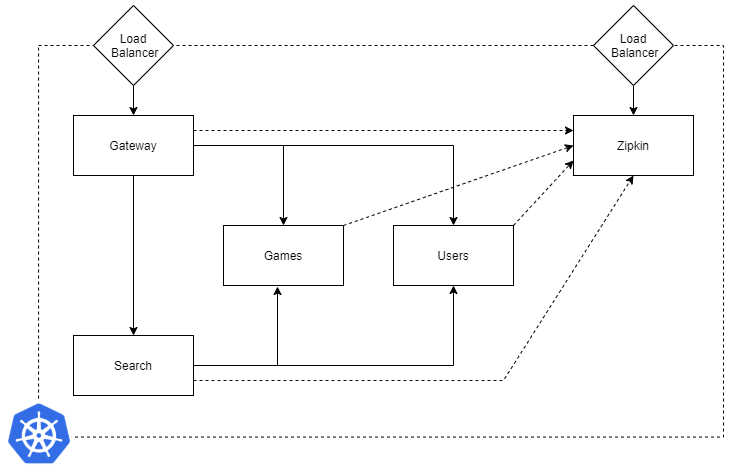
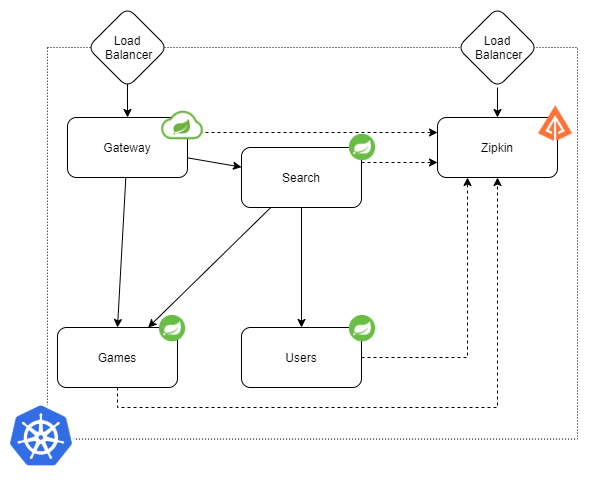
doc changes minor renaming

diff --git a/users/src/main/kotlin/com/gamelib/users/api/controller/IngestController.kt b/users/src/main/kotlin/com/gamelib/users/api/controller/IngestController.kt
@@ -22,10 +22,11 @@ class IngestController(
     }
 
     @PostMapping("{userId}/game/{gameId}")
-    fun addGame(@PathVariable userId: Long, @PathVariable gameId: Long) = userService.addGameToUser(userId, gameId)
+    fun addGameToUser(@PathVariable userId: Long, @PathVariable gameId: Long) =
+        userService.addGameToUser(userId, gameId)
 
     @DeleteMapping("{userId}/game/{gameId}")
-    fun removeGame(@PathVariable userId: Long, @PathVariable gameId: Long) =
+    fun removeGameFromUser(@PathVariable userId: Long, @PathVariable gameId: Long) =
         userService.removeGameFromUser(userId, gameId)
 
     @PostMapping("{userId}/game/{gameId}/playtime")

diff --git a/README.md b/README.md
@@ -1,12 +1,8 @@
-# Project Pre-Study
+# Project
 
 ## Project Idea
 
-The initial project idea was to expand the URL-Shortening Service from the first exercise.
-After some considerations the project idea was dropped as it doesn't provide with much interesting aspects for a microservice architecture.
-
-The new project idea consists of a game library service like Steam or Epic Games Store. The service manages games, users, the friends of users and which game each user owns.
-For the pre-study the service wasn't fully implemented, instead only the relevant parts were implemented to test the covered technologies.
+The project idea consists of a game library service like Steam or Epic Games Store. The service manages games, users and provides a search to search for different items. A major aspect of the project is the deployment. Every service is deployed including their dependencies (e.g. databases) are deployed inside a Kubernetes cluster. Another major aspect is resilience. The whole system makes use of resilience4j to provide fault tolerance. To monitor the services in the cluster, zipkin was used for distributed tracing.
 
 ### Architecture
 
@@ -15,30 +11,15 @@ For the pre-study the service wasn't fully implemented, instead only the relevan
 The architecture consists of four microservices:
 
 * Gateway: Main entry point for the application
-* Games Service: Provides information about games
-* Users Service: Provides information about users and what friends they have and games they own
+* Games Service: Provides information about games (title, description, price, achievements)
+* Users Service: Provides information about users and what friends they have, which games they own, which achievements they achieved and how much time they played
 * Search Service: Search Interface which allows searching in multiple other services (games and users in this case)
 
-## Covered Topics
+#### Services
 
-### Kubernetes
+##### Spring Gateway
 
-Kubernetes was used to manage the deployment of the service. However the services were only deployed in a local `minikube` cluster.
-Since Kubernetes deploys pods of docker images the services needed to be built into images.
-For this a GitHub Actions pipeline was set up for each service which runs when changes are made to the respective service directory and builds a docker image and pushes it to DockerHub.
-Each service defines the configuration files in the `.k8s` directory. These consist of deployment, service, config map.
-
-The databases for the users and games service are also deployed in the cluster using a `StatefulSet`. The configuration files are located in the `.k8s` directory of the respective service.
-
-The deployments also make use of the `Spring Actuator` by using the endpoint as the Kubernetes liveliness probe.
-
-To gain better insights in the K8S cluster the tool `Lens` was used.
-
-![Lens](doc/images/lens.png)
-
-### Spring Gateway
-
-To provide a "single point of entry" to the microservice architecture a gateway was implemented using the Spring Cloud Gateway. The configuration was done in the `application.yml` file. In addition to that the Resilience4J CircuitBreaker was setup for the routes of the gateway. The routing defined for the users service can be seen below. This redirects all requests starting with `/users` to the users service and strips the prefix.
+To provide a "single point of entry" to the microservice architecture a gateway was implemented using the Spring Cloud Gateway. The configuration was done in the `application.yml` file. In addition to that the Resilience4J CircuitBreaker was setup for the routes of the gateway. This means when a service is unavailable the gateway will immediately short circuit the request when a threshold of requests fail. The routing defined for the users service can be seen below. This redirects all requests starting with `/users` to the users service and strips the prefix using the `StripPrefix` filter.
 
 ```yml
 spring:
@@ -50,19 +31,203 @@ spring:
           predicates:
             - Path=/users/**
           filters:
-            - RewritePath=/users(?<path>/?.*), $\{path}
+            - StripPrefix=1
             - CircuitBreaker=users
 ```
+
+##### Games
+
+The games service manages and provides information about games and the achievements of each game.
+
+For this it provides the following endpoints:
+
+* adding a game
+* updating a game
+* getting all games
+* getting a game by its id
+* getting the achievements of a game
+* adding an achievement to a game
+* updating an achievement
+* searching for games (see [Search](#search))
+
+##### Users
+
+The users service is responsible for storing user data like name and email address and his friends. The service also stores which games the user owns, how much playtime he/she has on each game and which achievements he/she achieved for each game.
+
+The users service provides the following endpoints:
+
+* adding a user
+* getting all users
+* getting a user by its id
+* getting the friends of a user
+* getting the owned games of a user
+* getting the achieved achievements for a user for a game
+* getting the playtime of a user for a game
+* getting the total playtime of a user
+* adding a game to the users owned games
+* removing a game to the users owned games
+* adding playtime to a game for a user
+* adding an achievement to the achieved achievements for a game
+* searching for users (see [Search](#search))
+
+##### Search
+
+The search service provides an omni search, which allows to search for a term in multiple services. In the current implementation it searches the games and users services. The services are provided via the config and it is easily possible to add more services in the future. The only requirement for a service to be searchable is the implementation of a `/search` endpoint which receives a query variable `term` and returns a list of results. The requests to the other services are made in parallel. Additionally resilience4j is used (see [Resilience4J](#resilience4j)). Every request is retried three times, each of those requests is also limited to 100ms. In addition to that a circuit breaker was configured which means search queries are not slowed down when one of the services is down.
+
+An example response for the search `F` can be seen below.
+
+```json
+[
+  {
+    "type": "users",
+    "results": [
+      {
+        "name": "Felix",
+        "email": "felix.stumvoll@gmail.com",
+        "id": 1
+      }
+    ]
+  },
+  {
+    "type": "games",
+    "results": [
+      {
+        "id": 6,
+        "title": "Forza Horizon",
+        "description": "lorem ipsum",
+        "price": 59.99
+      }
+    ]
+  }
+]
+```
+
+### OAuth
+
+All the GET requests of the service can be accessed without authentication or authorization. To prevent unauthorized users from inserting data the endpoints which modify data (e.g. inserting games, adding playtime to a user) are both authenticated and authorized using OAuth using Auth0. For this the secured services (users and games) use the spring security library. The secured endpoints are annotated with `@PreAuthorize("isAuthenticated() and hasAuthority('example:permission')")`. This means users have to provide a bearer token with the correct permissions to be able to interact with the service.
+
+### Build Pipeline
+
+Since Kubernetes deploys pods of docker images the services needed to be built into images. For this a GitHub Actions pipeline similar to the one shown below was set up for each of the 4 services. With the `paths:` section it is configured to be only triggered when the specific service is changed.
+
+```yml
+name: Build Games
+on:
+  push:
+    branches:
+      - main
+    paths:
+      - games/**
+jobs:
+  build-docker:
+    runs-on: ubuntu-latest
+    steps:
+      - name: Checkout
+        uses: actions/checkout@v2
+
+      - name: Log in to DockerHub
+        uses: docker/login-action@v1
+        with:
+          username: ${{ secrets.DOCKER_USER }}
+          password: ${{ secrets.DOCKER_TOKEN }}
+      - name: Build and push
+        uses: docker/build-push-action@v2
+        with:
+          context: ./games
+          push: true
+          tags: felixstumvoll/gamelib-games:latest
+
+```
+
+This pipeline uses the `Dockerfile` located in each service directory to build a docker image which is pushed to DockerHub. The `Dockerfile` is also responsible to use the correct spring configuration. Each service defines two, one for development and one for production. The production config allows to configure most of the properties through environment variables. The active one is controlled by the `spring.profiles.active` property. Using the following line in the `Dockerfile` it is guaranteed, that the correct profile is used in production.
+
+```dockerfile
+RUN sed -i 's/profiles.active:.*/profiles.active: prod/' ./src/main/resources/application.yml
+```
+
+### Kubernetes
+
+Kubernetes was used to manage the deployment of the service. However the services were only deployed locally using a `minikube` cluster as a docker container. This has the added benefit, that the cluster can be stopped and started at any time without having to delete and reapply every configuration.
+
+Each service defines a separate configuration which is located in the `.k8s` directory. This consists of:
+
+* service definition
+* deployment definition
+* config map
+
+The users and games service additionally define the following files for the respective databases:
+
+* database service
+* database stateful set
+* database config map
+* database secret map
+
+In addition to that there are a few common configurations located in the `ops` directory. This includes the configuration of the Zipkin service and the configuration for the OAuth parameters as both should be equal to all services deployed in the cluster. This directory also contains the config for the Zipkin deployment and service.
+
+The deployments use the images created in [Build Pipeline](#build-pipeline) and apply the required environment variables through the config maps and secret maps. Through service definitions the services are exposed to other services. The deployments also use the `Spring Actuator` library which are used as the Kubernetes liveliness probe. For this the following configuration needs to be added to the container definition of the deployment.
+
+```yml
+livenessProbe:
+  httpGet:
+    path: /actuator/health
+    port: 8021
+  initialDelaySeconds: 100
+```
+
+The databases for the users and games service are deployed in the cluster using `StatefulSets`. These are very useful for databases as the storage of a pod does not get destroyed when it gets destroyed. For this the `StatefulSet` defines a `volumeClaimTemplate` which provisions a `PersistentVolume` from a `PersistentVolume` Provisioner. In a cloud environment this would request this volume from the cloud provider, in `minikube` the `PersistentVolume` is mapped to a directory inside the `minikube` container.
+
+The important parts of the k8s configuration of a stateful set can be seen below.
+
+```yml
+apiVersion: apps/v1
+kind: StatefulSet
+metadata:
+  name: users-db
+spec:
+  # selector, replicas, metadata, etc...
+  template:
+    # metadata
+    spec:
+      containers:
+        - name: users-db
+          image: mysql
+          # env, ports, etc...
+          volumeMounts:
+            - name: data
+              mountPath: /var/lib/mysql
+  volumeClaimTemplates:
+    - metadata:
+        name: data
+      spec:
+        accessModes: ["ReadWriteOnce"]
+        resources:
+          requests:
+            storage: 1Gi
+```
+
+To access the services provided in the Kubernetes cluster two public endpoints were defined through a load balancer. These two are the gateway and the Zipkin service.
+
+To get a better overview over the cluster and all the running pods, the tool `Lens` was used.
+
+![Lens](doc/images/lens.png)
 
 ### Resilience4J
 
 To provide fault tolerance between communicating services `resilience4j` was chosen as library.
 Specifically the modules `CircuitBreaker`, `Retry` and `Timelimiter` were used.
-The setup was sadly not as straight forward as initially thought since the library provides lots of different dependencies, namely for Spring Cloud Configuration, Spring Boot Annotations, Project Reactor and one for Kotlin Flow support. Spring also provides two dependencies as well one for WebMVC and one for Spring reactive. This is in addition to the base dependencies of resilience4j for each module (retry, circuit breaker, etc.)
+The setup was sadly not as straight forward as initially thought since resilience4j provides the following different libraries:
 
-The gateway uses the reactive spring dependency and the search service uses the Kotlin Flow dependency, as well as the dependencies to the base modules (retry, circuit breaker, timelimiter).
+* Spring Cloud Configuration
+* Spring Boot Annotations
+* Spring reactive
+* Kotlin Coroutines/Flow Support
 
-The screenshot below shows a request to the search service. In this case, the users service is down. The screenshot shows, that the request gets retried three times. In addition to that the request is time limited to 100ms before the request is cancelled.
+This is in addition to the base library of resilience4j for each module (retry, circuit breaker, etc.).
+On top of that Spring additional provides two separate libraries for WebMVC and Spring reactive.
+
+The gateway uses the Spring reactive resilience4j library and the search service uses the Kotlin library, as well as the libraries to the base modules (retry, circuit breaker, timelimiter).
+
+The screenshot below shows resilience4j in action. In this case, the users service is down. The screenshot shows, that the request gets retried three times. Each of those retries are limited to 100ms before the request is cancelled, to not make the user wait too long.
 
 ![retries](doc/images/retries.png)
 
@@ -95,13 +260,13 @@ resilience4j:
   timelimiter:
     configs:
       default:
-        timeoutDuration: 10s
+        timeoutDuration: 5s
 ```
 
-The configuration for the search service is done in code. This is because the search service can search multiple services but each "searchable" service needs its own configuration (otherwise the resilience4j configurations would interfere with one another). The snippet below shows the configuration of `retry`, `circuit breaker` and `retry`. The `$it` in the name of the service represents the name of the service and is provided when the configurations are created.
+The configuration for the search service is done in code. This is because the search service can call multiple services (defined in the configuration) but each of those services needs its own configuration, otherwise the resilience4j configurations would interfere with one another. The snippet below shows the configuration of `retry`, `circuit breaker` and `retry`. The `$it` variable represents the name of the service and is provided when the configurations are created.
 
 An important configuration aspect is the `ignoreExceptions` in the `retry` configuration.
-This prevents retries from happening if the circuit breaker is open.
+This prevents retries from happening if the circuit breaker is open. Otherwise the request would still be retried, which would make the circuit breaker pointless.
 
 ```kotlin
 Retry.of("search-$it", RetryConfig {
@@ -132,7 +297,3 @@ This allows the tracing of a request through multiple services as one related re
 In the screenshot below the span of a request to the search service can be seen.
 
 ![zipkin](doc/images/zipkin.png)
-
-## Remaining Tasks
-
-One of the main task going into the project is to extend the functionality of the services. Since they were only implemented to try out the covered technologies, they are pretty bare bone at the moment.
